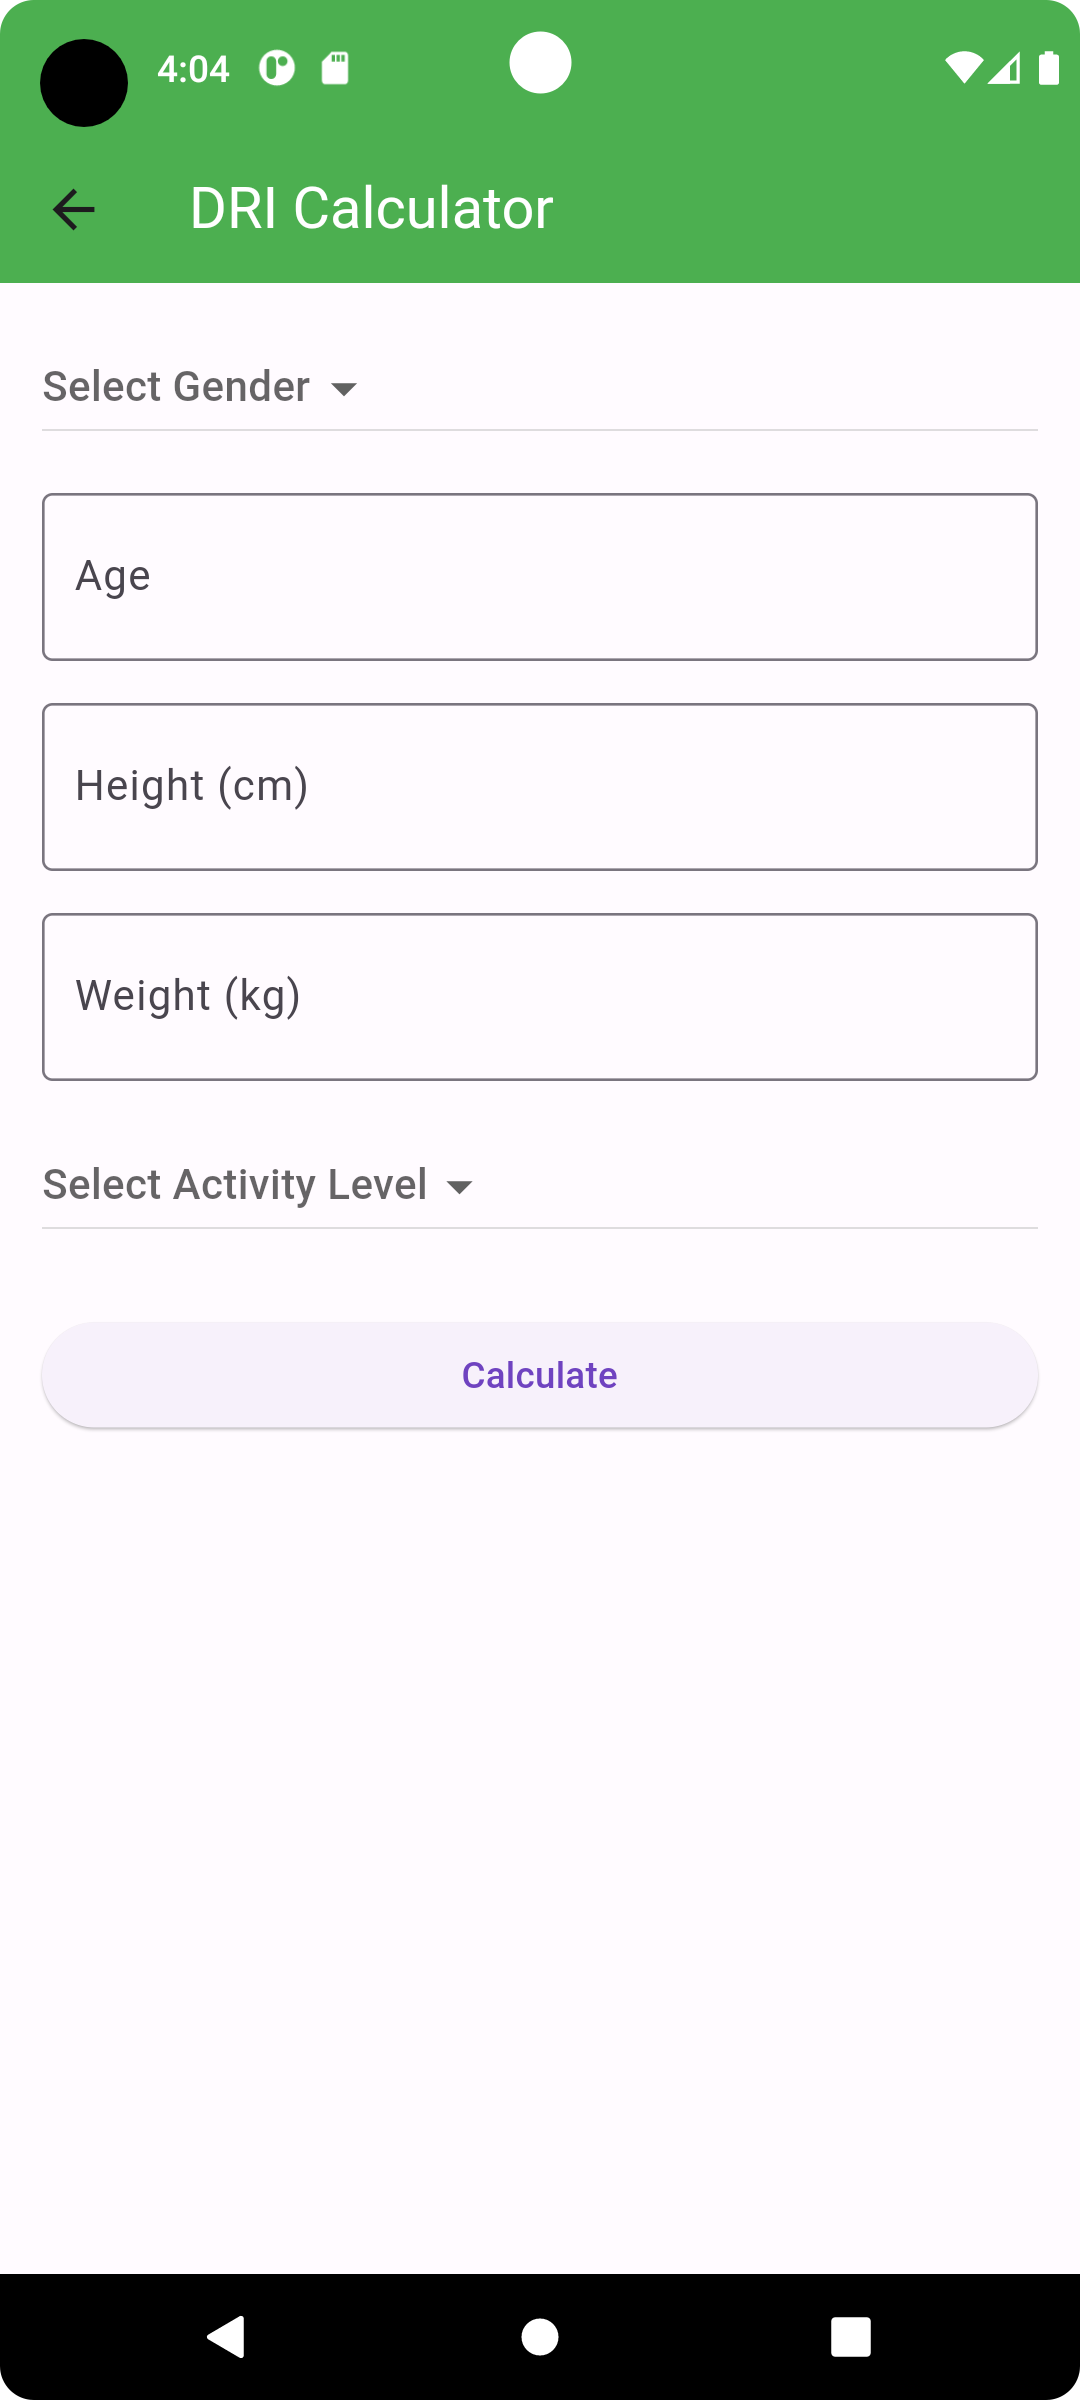
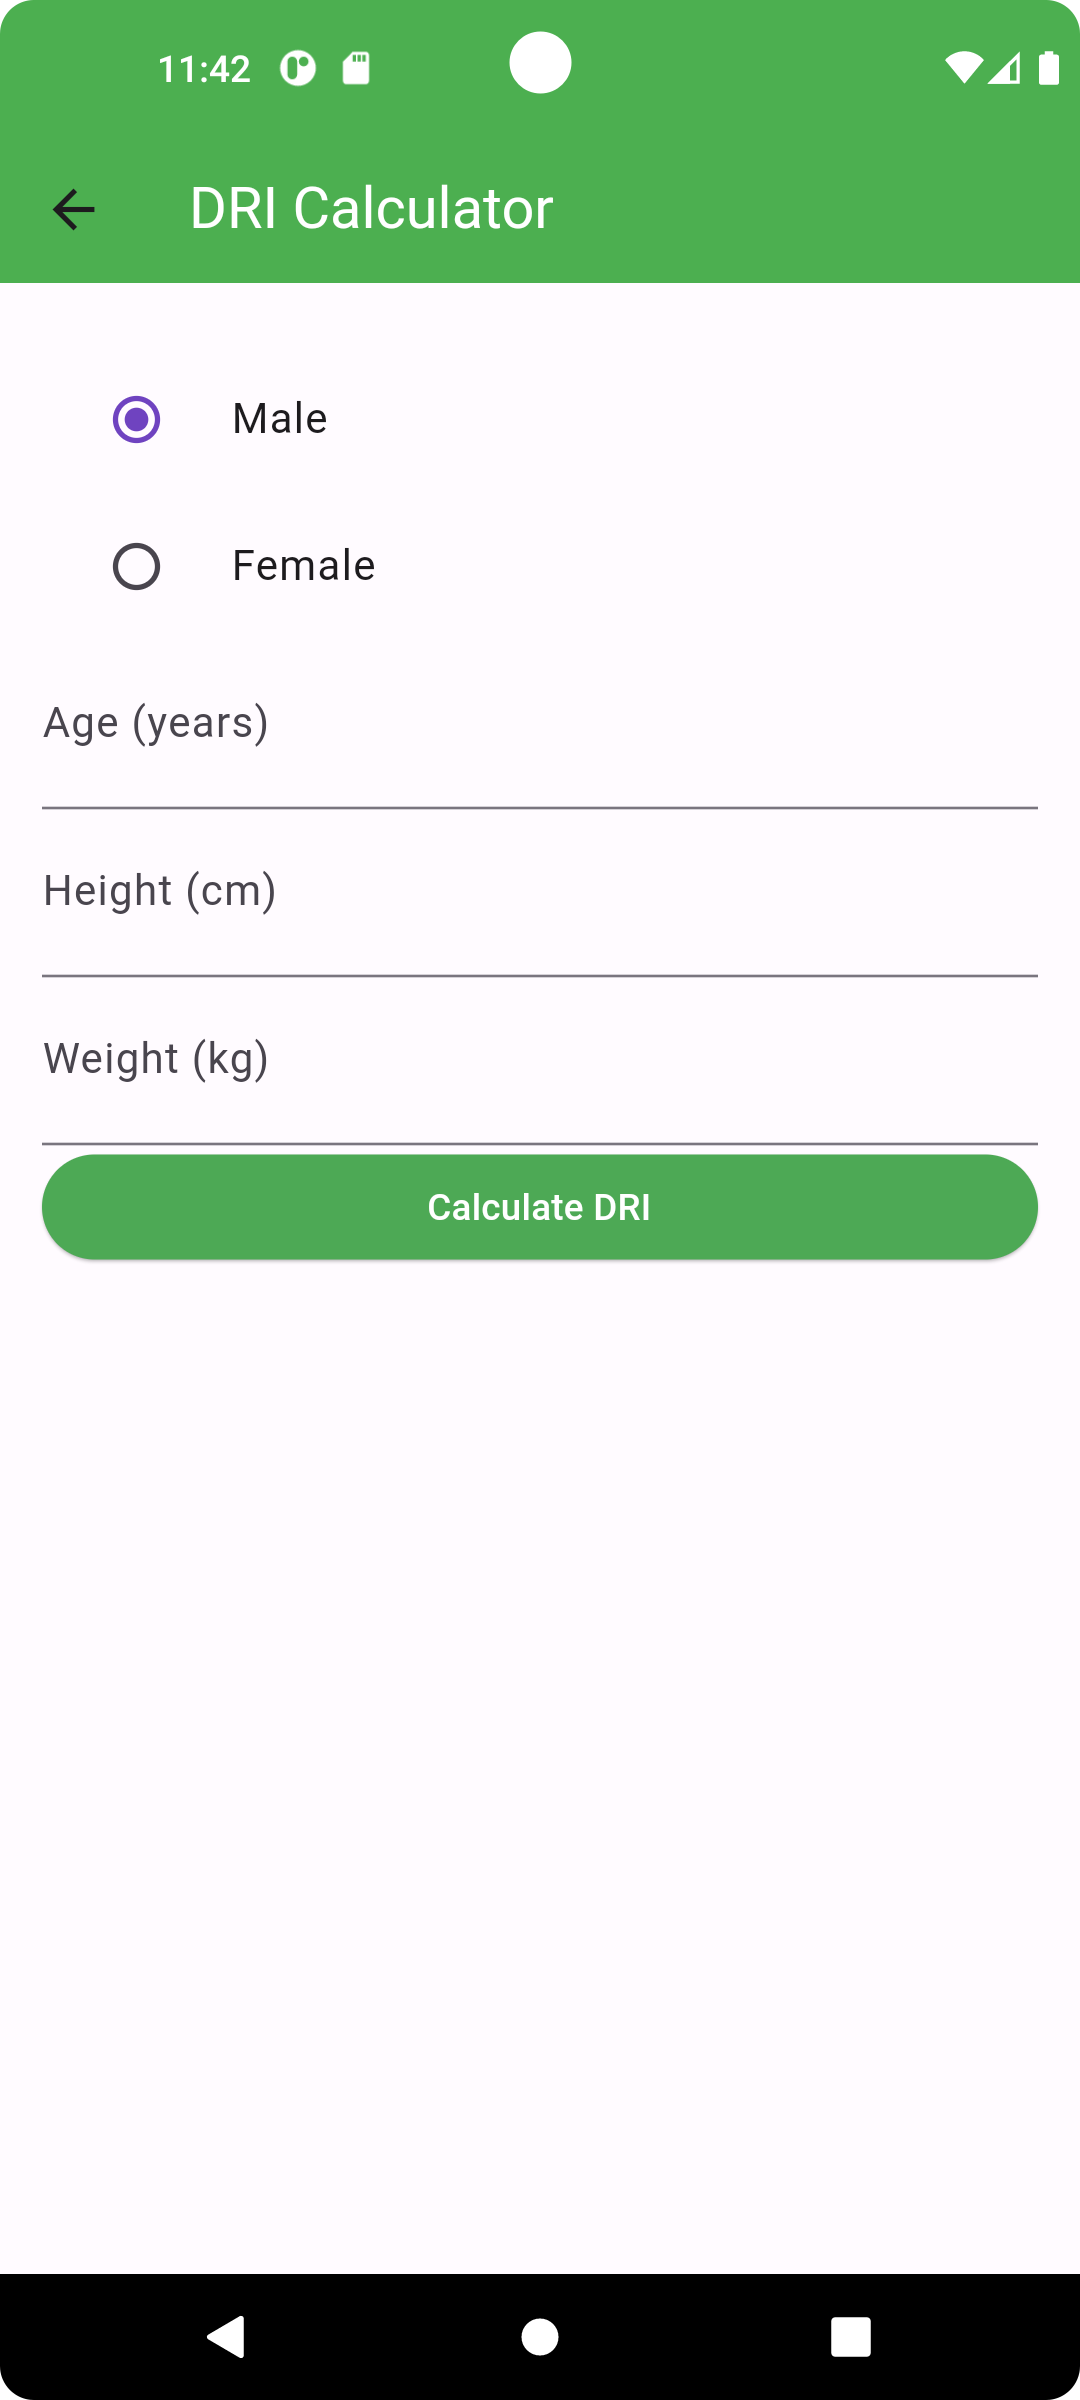
calc

diff --git a/lib/profile_page.dart b/lib/profile_page.dart
@@ -1,4 +1,5 @@
 import 'package:flutter/material.dart';
+import 'package:meal_recommender/DRIcalc.dart';
 import 'package:meal_recommender/YourAccount.dart';
 import 'package:meal_recommender/dietneedsPage.dart';
 import 'package:meal_recommender/dritool.dart';
@@ -279,7 +280,7 @@ class _ProfilePageState extends State<ProfilePage> {
                       onTap: () {
                         Navigator.push(
                           context,
-                          MaterialPageRoute(builder: (context) => DRIToolPage()),
+                          MaterialPageRoute(builder: (context) => DRICalculatorPage()),
                         );
                       },
                     ),

diff --git a/lib/notificationpage.dart b/lib/notificationpage.dart
@@ -80,7 +80,8 @@ class _notificationpageState extends State<notificationpage> {
   Widget build(BuildContext context) {
     return Scaffold(
       appBar: AppBar(
-        title: Text("Daily Reminder"),
+        backgroundColor: Colors.green,
+        title: Text("Daily Reminder",style: TextStyle(color: Colors.white),),
         centerTitle: true,
         actions: [
           IconButton(
@@ -91,7 +92,7 @@ class _notificationpageState extends State<notificationpage> {
                 ),
               );
             },
-            icon: Icon(Icons.library_books_rounded),
+            icon: Icon(Icons.library_books_rounded,color: Colors.white,),
           ),
         ],
       ),

diff --git a/lib/DRIcalc.dart b/lib/DRIcalc.dart
@@ -108,6 +108,7 @@ class _DRICalculatorPageState extends State<DRICalculatorPage> {
                 validator: (value) => value == null || value.isEmpty ? 'Please enter your weight' : null,
               ),
               // Calculate button
+              SizedBox(height: 20.00,),
               ElevatedButton(
                 onPressed: _calculateDRI,
                 child: Text(
